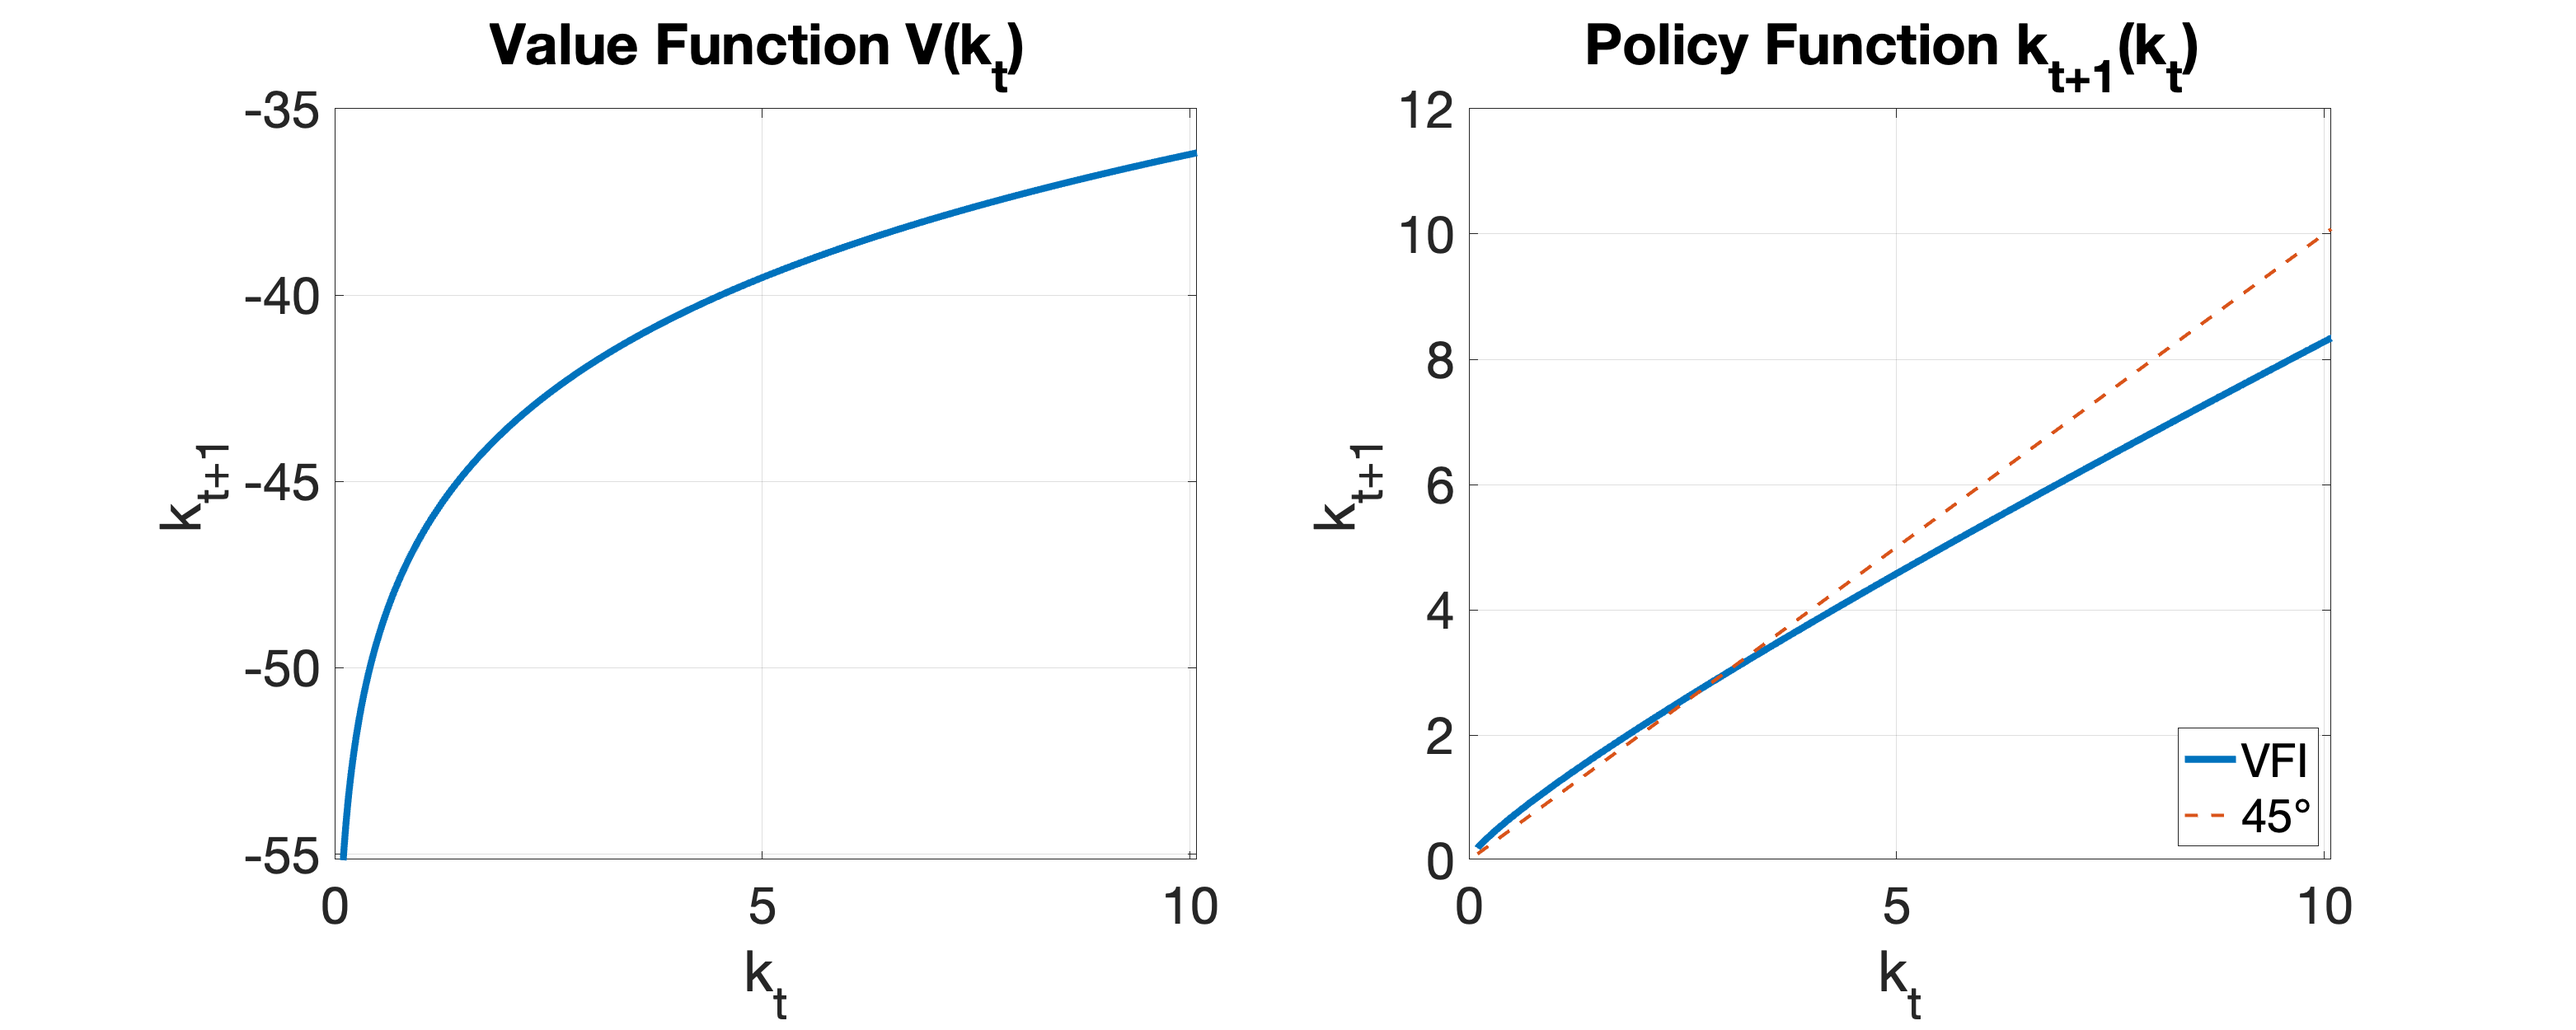
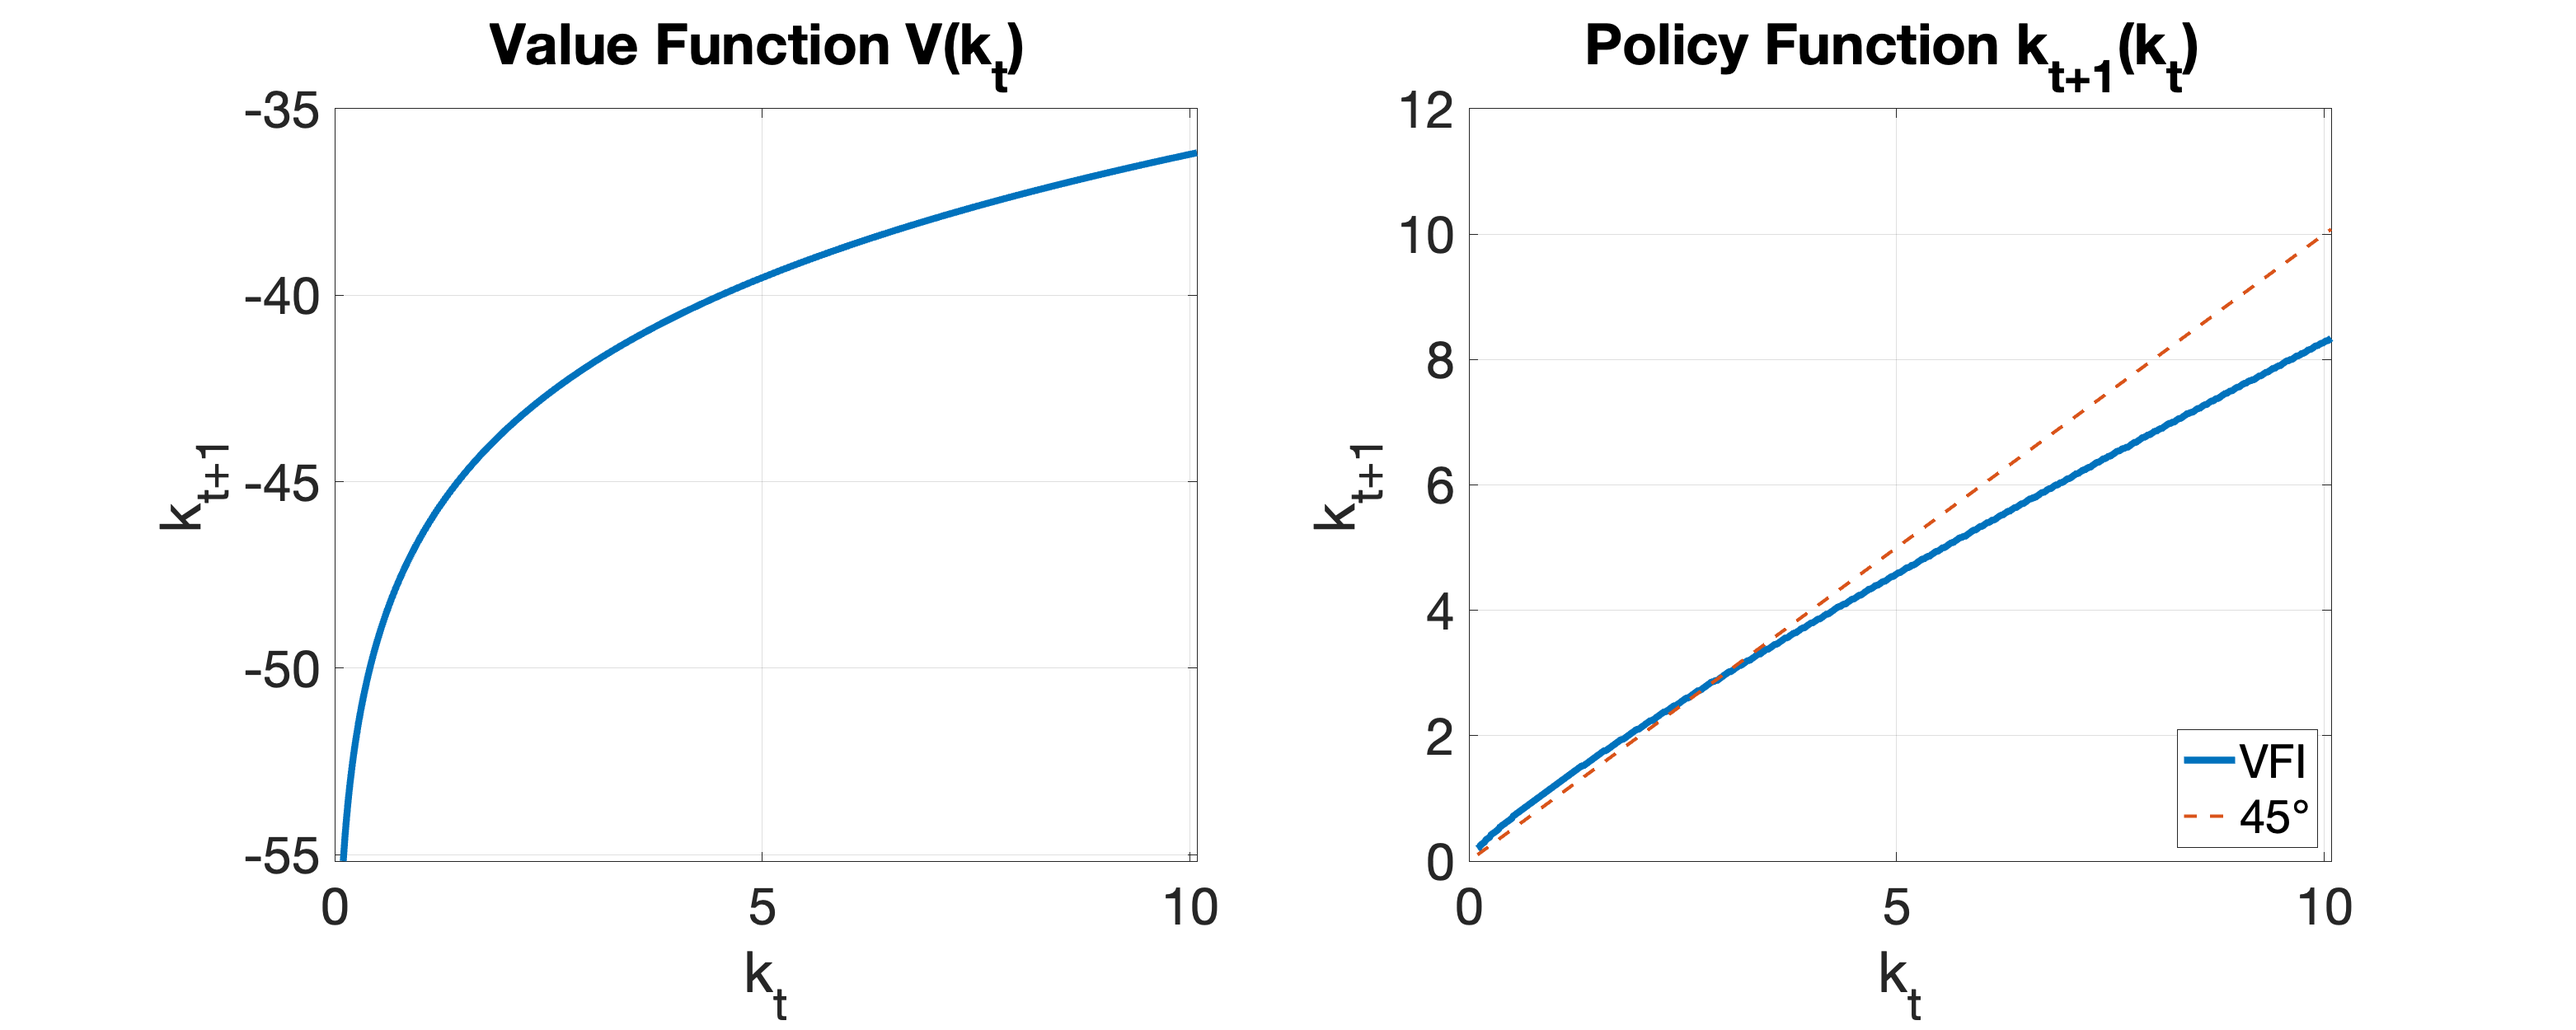
Add Q2c

Changed region(s): [[0.1552, 0.8112, 0.4656, 0.8424], [0.8691, 0.78, 0.9002, 0.8424], [0.8691, 0.7176, 0.9002, 0.7488]]

diff --git a/TI1_00_main.m b/TI1_00_main.m
@@ -112,22 +112,23 @@ saveas(gcf,'plots/Q2a.png');
 %% %%% 01B Delta = 0.5, gN=500 %%%
 %%%%%%%%%%%%%%%%%%%%%%%%%%%%%%%%%%%%%%%%%%%%%%%%%%%%%%%%%%%%%%%%%%%%%%%%%%%
 
-gN   = 2000; Vhistory = nan(gN,iterMax);
 % define depreciation rate
 delta= 0.5;
 
-% update k grid
-kbar = [0.1 (z./(delta))^(1/(1-alpha)) ];
-gridK= [kbar(1):(kbar(2)-kbar(1))/(gN-1):kbar(2)]'
-
 % define C for a given k and k' using the budget constraint
 cGivenKK = @(k,kprime) z.*k.^alpha + (1-delta).*k - kprime
+
 
 % theoretical steady state values
 theoryK_steadystate = (alpha*z*beta/(1-beta+beta*delta))^(1/(1-alpha));
 theoryC_steadystate = z*theoryK_steadystate^alpha-delta*theoryK_steadystate;
 
-%(alpha*z*beta/(1-beta+beta*delta))^(1/(1-alpha));
+
+% update k grid
+gN   = 500; Vhistory = nan(gN,iterMax);
+kbar = [0.1 (z./(delta))^(1/(1-alpha)) ];
+gridK= [kbar(1):(kbar(2)-kbar(1))/(gN-1):kbar(2)]'
+
 
 % initialize value function iteration (VFI)
 Vdiff=10; iter=0; 
@@ -139,6 +140,7 @@ V = 0.* gridK;
 Vhistory(:,1) = V; VdiffH = nan(1,iterMax);
 
 % run VFI
+tic
 while Vdiff>tol & iter <iterMax
     cfeasible = cGivenKK(gridK,gridK')>=0;
     c = cGivenKK(gridK,gridK') .* cfeasible;
@@ -148,6 +150,7 @@ while Vdiff>tol & iter <iterMax
     % store history
     VdiffH(iter) = Vdiff./tol; Vhistory(:,iter) = V;
 end
+toc
 VdiffH(iter-5:iter+1)
 iter
 
@@ -165,11 +168,90 @@ legend([{'VFI'} {'45°'} ],'Location','southeast');
 
 saveas(gcf,'plots/Q2b.png');
 
-
 [gridK gridK(index) gridK-gridK(index)]
 
 [~,index_steadyK]= min(abs(gridK-gridK(index)));
-kplus = gridK(index); K_steadystate = kplus(index_steadyK)
-[K_steadystate theoryK_steadystate]
+kplus = gridK(index); K_steadystate = kplus(index_steadyK);
+K_ss_diff = K_steadystate-theoryK_steadystate;
+[K_steadystate theoryK_steadystate  K_ss_diff K_ss_diff/theoryK_steadystate]
 
-[cGivenKK(K_steadystate,K_steadystate) theoryC_steadystate]
+C_ss_diff = cGivenKK(K_steadystate,K_steadystate)-theoryC_steadystate;
+[cGivenKK(K_steadystate,K_steadystate) theoryC_steadystate C_ss_diff C_ss_diff/theoryC_steadystate]
+
+
+%%%%%%%%%%%%%%%%%%%%%%%%%%%%%%%%%%%%%%%%%%%%%%%%%%%%%%%%%%%%%%%%%%%%%%%%%%%
+%% %%% 01C Delta = 0.5,Loop over grid sizes %%%
+%%%%%%%%%%%%%%%%%%%%%%%%%%%%%%%%%%%%%%%%%%%%%%%%%%%%%%%%%%%%%%%%%%%%%%%%%%%
+
+% define grid sizes
+gNgrid = [50, 100, 500, 1000, 2000];
+gNgridLength = size(gNgrid,2);
+
+gNgridTime = nan(1,gNgridLength);
+gNgridKss  = nan(1,gNgridLength);
+gNgridCss  = nan(1,gNgridLength);
+for iNgrid=1:gNgridLength
+    gN   = gNgrid(iNgrid); 
+
+    % update k grid
+    Vhistory = nan(gN,iterMax);
+    kbar = [0.1 (z./(delta))^(1/(1-alpha)) ];
+    gridK= [kbar(1):(kbar(2)-kbar(1))/(gN-1):kbar(2)]';
+    
+    
+    % initialize value function iteration (VFI)
+    Vdiff=10; iter=0; 
+    
+    % define initial value function guess
+    V = 0.* gridK;
+    
+    % define objects to track v_n at each iteration
+    Vhistory(:,1) = V; VdiffH = nan(1,iterMax);
+    
+    % run VFI
+    tic
+    while Vdiff>tol & iter <iterMax
+        cfeasible = cGivenKK(gridK,gridK')>=0;
+        c = cGivenKK(gridK,gridK') .* cfeasible;
+        [Vnew , index] = max( u(c) + beta* V',[], 2   );
+        Vdiff = sum((Vnew- V).^2); V= Vnew; iter = iter+1;
+    
+        % store history
+        VdiffH(iter) = Vdiff./tol; Vhistory(:,iter) = V;
+    end
+    gNgridTime(iNgrid) = toc
+
+    % extract steady state values
+    [~,index_steadyK]= min(abs(gridK-gridK(index)));
+    kplus = gridK(index); gNgridKss(iNgrid) = kplus(index_steadyK);
+
+    gNgridCss(iNgrid) = cGivenKK(gNgridKss(iNgrid),gNgridKss(iNgrid));
+
+end
+
+gNgridTime
+gNgridKss
+gNgridCss
+
+figure; set(gcf,'position',[400,800,1500,600]);
+p =subplot(1,3,1);
+%plot(gNgrid, gNgridTime,'O-', 'LineWidth',4); grid on; hold on; ylabel('time'); xlabel('grid size');
+plot(gNgrid, gNgridTime,'O-', 'LineWidth',4); grid on; hold on; ylabel('time (in seconds)'); xlabel('grid size');
+title('A) Computational Time'); p.FontSize =20;
+
+
+p = subplot(1,3,2);
+plot(gNgrid, gNgridKss , 'bO-', 'LineWidth',4); grid on; hold on; ylabel('k_{ss} & c_{ss}'); xlabel('grid size');
+plot(gNgrid, ones(1,gNgridLength)*theoryK_steadystate , 'k--', 'LineWidth',2); 
+plot(gNgrid, gNgridCss , 'rO-', 'LineWidth',4); grid on; hold on;
+plot(gNgrid, ones(1,gNgridLength)*theoryC_steadystate , 'k--', 'LineWidth',2); 
+title('B) Steady state comparison'); p.FontSize =20;
+%legend([{'k_{ss}'} {''} {'c_{ss}'} {''}],'Location','southeast');
+
+p = subplot(1,3,3);
+plot(gNgrid, abs(gNgridKss-theoryK_steadystate), 'bO-', 'LineWidth',4); grid on; hold on; ylabel('|x_{ss}-x_{ss}^T|'); xlabel('grid size');
+plot(gNgrid, abs(gNgridCss-theoryC_steadystate), 'rO-', 'LineWidth',4); grid on; hold on;
+title('C) Steady state absolute difference'); p.FontSize =20;
+legend([{'k_{ss}'} {'c_{ss}'}],'Location','southeast');
+
+saveas(gcf,'plots/Q2c.png');
